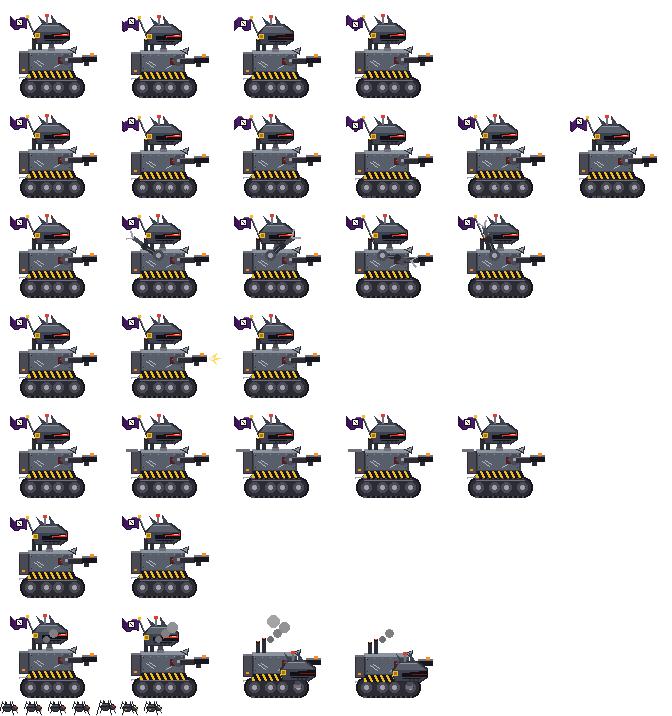
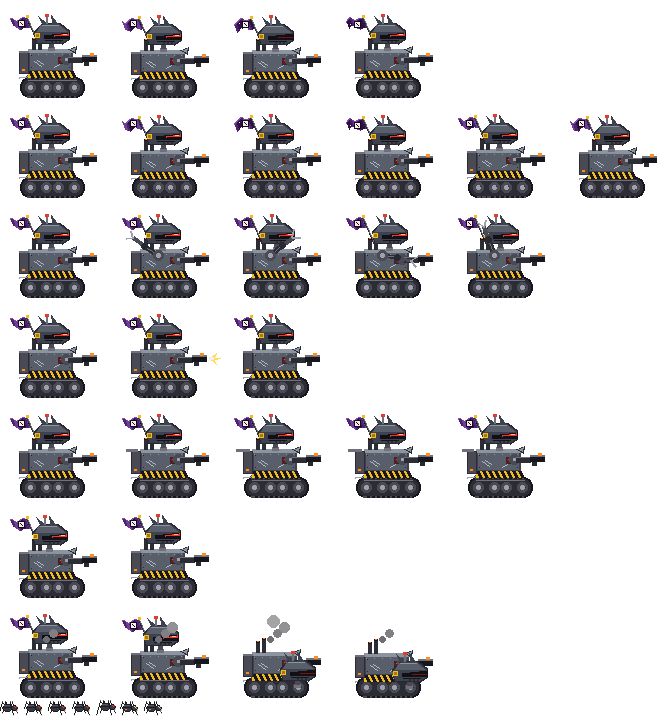
0.12.517: Brood_Bot's flag attaches along the pole and waves like cloth
Claude-Session: https://claude.ai/code/session_01MWfQtZY2YmsPgpaMMoKqpP

diff --git a/crawl.js b/crawl.js
@@ -6088,12 +6088,12 @@ if(typeof module!=='undefined'&&module.exports){module.exports=API;}
 if(typeof document==='undefined')return;
 
 // ======================================================================= UI (browser only)
-const IMG=new Image();IMG.src='crawl.png?v=1795676810';const BGI=new Image();BGI.src='crawl_bg.png?v=1795676810';
-const SP=ATLAS.sprites,BGA=ATLAS.bg,RES=ATLAS.res||1;const UNITS=ATLAS.units||{};const UIMG=new Image();UIMG.src='crawl_units.png?v=1795676810';const RAIN={f:{fw:5,fh:18,n:1,ax:2,ay:17,x:0,y:0,img:'rain'},s:{fw:5,fh:11,n:1,ax:2,ay:10,x:8,y:7,img:'rain'}};
+const IMG=new Image();IMG.src='crawl.png?v=1795676886';const BGI=new Image();BGI.src='crawl_bg.png?v=1795676886';
+const SP=ATLAS.sprites,BGA=ATLAS.bg,RES=ATLAS.res||1;const UNITS=ATLAS.units||{};const UIMG=new Image();UIMG.src='crawl_units.png?v=1795676886';const RAIN={f:{fw:5,fh:18,n:1,ax:2,ay:17,x:0,y:0,img:'rain'},s:{fw:5,fh:11,n:1,ax:2,ay:10,x:8,y:7,img:'rain'}};
 const CAMPF={fw:34,fh:40,ax:17,ay:37,y:0,img:'camp'};
-const XIMG={cityob:new Image(),cars:new Image(),cultist:new Image(),tentacle:new Image(),robot:new Image(),obst:new Image(),lumberjack:new Image(),camp:new Image(),druid:new Image(),tornado:new Image(),vine:new Image(),thorn:new Image(),rain:new Image(),flannel:new Image(),alchemist:new Image(),boom:new Image(),pal:new Image(),chibi:new Image(),wave:new Image(),archer:new Image()};XIMG.archer.src='crawl_archer.png?v=1795676810';XIMG.wave.src='crawl_wave.png?v=1795676810';XIMG.chibi.src='crawl_chibi.png?v=1795676810';XIMG.flannel.src='crawl_flannel.png?v=1795676810';XIMG.alchemist.src='crawl_alch.png?v=1795676810';XIMG.jp=new Image();XIMG.jp.src='crawl_jp.png?v=1795676810';XIMG.eng=new Image();XIMG.eng.src='crawl_eng.png?v=1795676810';XIMG.shoshi=new Image();XIMG.shoshi.src='crawl_shoshi.png?v=1795676810';XIMG.teeg=new Image();XIMG.teeg.src='crawl_teeg.png?v=1795676810';XIMG.seekyle=new Image();XIMG.seekyle.src='crawl_seekyle.png?v=1795676810';XIMG.kids=new Image();XIMG.kids.src='crawl_kids.png?v=1795676810';XIMG.gear=new Image();XIMG.gear.src='crawl_gear.png?v=1795676810';XIMG.portals=new Image();XIMG.portals.src='crawl_portals.png?v=1795676810';XIMG.skel=new Image();XIMG.skel.src='crawl_skel.png?v=1795676810';XIMG.knight=new Image();XIMG.knight.src='crawl_knight.png?v=1795676810';XIMG.strike=new Image();XIMG.strike.src='crawl_strike.png?v=1795676810';XIMG.soldier=new Image();XIMG.soldier.src='crawl_soldier.png?v=1795676810';XIMG.bghood=new Image();XIMG.bghood.src='crawl_bg_hood.png?v=1795676810';XIMG.bloater=new Image();XIMG.hazmat=new Image();XIMG.hazmat.src='crawl_hazmat.png?v=1795676810';XIMG.bloater.src='crawl_bloater.png?v=1795676810';XIMG.screamer=new Image();XIMG.screamer.src='crawl_screamer.png?v=1795676810';XIMG.flame=new Image();XIMG.flame.src='crawl_flame.png?v=1795676810';XIMG.rain.src='crawl_rain.png?v=1795676810';XIMG.druid.src='crawl_druid.png?v=1795676810';XIMG.camp.src='crawl_campfire.png?v=1795676810';XIMG.lumberjack.src='crawl_lumberjack.png?v=1795676810';XIMG.tornado.src='crawl_fx_tornado.png?v=1795676810';XIMG.broodbot=new Image();XIMG.broodbot.src='crawl_broodbot.png?v=1795676810';XIMG.bub=new Image();XIMG.bub.src='crawl_bub.png?v=1795676810';XIMG.vine.src='crawl_fx_vine.png?v=1795676810';XIMG.thorn.src='crawl_fx_thorn.png?v=1795676810';
+const XIMG={cityob:new Image(),cars:new Image(),cultist:new Image(),tentacle:new Image(),robot:new Image(),obst:new Image(),lumberjack:new Image(),camp:new Image(),druid:new Image(),tornado:new Image(),vine:new Image(),thorn:new Image(),rain:new Image(),flannel:new Image(),alchemist:new Image(),boom:new Image(),pal:new Image(),chibi:new Image(),wave:new Image(),archer:new Image()};XIMG.archer.src='crawl_archer.png?v=1795676886';XIMG.wave.src='crawl_wave.png?v=1795676886';XIMG.chibi.src='crawl_chibi.png?v=1795676886';XIMG.flannel.src='crawl_flannel.png?v=1795676886';XIMG.alchemist.src='crawl_alch.png?v=1795676886';XIMG.jp=new Image();XIMG.jp.src='crawl_jp.png?v=1795676886';XIMG.eng=new Image();XIMG.eng.src='crawl_eng.png?v=1795676886';XIMG.shoshi=new Image();XIMG.shoshi.src='crawl_shoshi.png?v=1795676886';XIMG.teeg=new Image();XIMG.teeg.src='crawl_teeg.png?v=1795676886';XIMG.seekyle=new Image();XIMG.seekyle.src='crawl_seekyle.png?v=1795676886';XIMG.kids=new Image();XIMG.kids.src='crawl_kids.png?v=1795676886';XIMG.gear=new Image();XIMG.gear.src='crawl_gear.png?v=1795676886';XIMG.portals=new Image();XIMG.portals.src='crawl_portals.png?v=1795676886';XIMG.skel=new Image();XIMG.skel.src='crawl_skel.png?v=1795676886';XIMG.knight=new Image();XIMG.knight.src='crawl_knight.png?v=1795676886';XIMG.strike=new Image();XIMG.strike.src='crawl_strike.png?v=1795676886';XIMG.soldier=new Image();XIMG.soldier.src='crawl_soldier.png?v=1795676886';XIMG.bghood=new Image();XIMG.bghood.src='crawl_bg_hood.png?v=1795676886';XIMG.bloater=new Image();XIMG.hazmat=new Image();XIMG.hazmat.src='crawl_hazmat.png?v=1795676886';XIMG.bloater.src='crawl_bloater.png?v=1795676886';XIMG.screamer=new Image();XIMG.screamer.src='crawl_screamer.png?v=1795676886';XIMG.flame=new Image();XIMG.flame.src='crawl_flame.png?v=1795676886';XIMG.rain.src='crawl_rain.png?v=1795676886';XIMG.druid.src='crawl_druid.png?v=1795676886';XIMG.camp.src='crawl_campfire.png?v=1795676886';XIMG.lumberjack.src='crawl_lumberjack.png?v=1795676886';XIMG.tornado.src='crawl_fx_tornado.png?v=1795676886';XIMG.broodbot=new Image();XIMG.broodbot.src='crawl_broodbot.png?v=1795676886';XIMG.bub=new Image();XIMG.bub.src='crawl_bub.png?v=1795676886';XIMG.vine.src='crawl_fx_vine.png?v=1795676886';XIMG.thorn.src='crawl_fx_thorn.png?v=1795676886';
 const TORN={fw:96,fh:96,n:16,ax:48,ay:90,x:0,y:0,img:'tornado',art:1},VINE={fw:260,fh:116,n:7,ax:130,ay:110,x:0,y:0,img:'vine',art:1};
-const THORNS=[[0,35,53],[37,67,79],[106,36,82],[144,87,74]].map(([x,w,h])=>({fw:w,fh:h,n:1,ax:w/2,ay:81,x,y:82-h,img:'thorn',art:1}));XIMG.pal.src='crawl_pal.png?v=1795676810';XIMG.axe=new Image();XIMG.axe.src='crawl_axe.png?v=1795676810';XIMG.fxp=new Image();XIMG.fxp.src='crawl_fxpack.png?v=1795676810';XIMG.nest=new Image();XIMG.nest.src='crawl_mgnest.png?v=1795676810';XIMG.dog=new Image();XIMG.dog.src='crawl_dog.png?v=1795676810';XIMG.bat=new Image();XIMG.bat.src='crawl_bat.png?v=1795676810';XIMG.edward=new Image();XIMG.edward.src='crawl_edward.png?v=1795676810';XIMG.cheez=new Image();XIMG.cheez.src='crawl_cheez.png?v=1795676810';XIMG.chumboom=new Image();XIMG.chumboom.src='crawl_chumboom.png?v=1795676810';XIMG.cheezhorse=new Image();XIMG.cheezhorse.src='crawl_cheezhorse.png?v=1795676810';XIMG.obst.src='crawl_obst.png?v=1795676810';XIMG.cityob.src='crawl_cityob.png?v=1795676810';XIMG.cars.src='crawl_cars.png?v=1795676810';XIMG.robot.src='crawl_robot.png?v=1795676810';XIMG.cultist.src='crawl_cultist.png?v=1795676810';XIMG.tentacle.src='crawl_tentacle.png?v=1795676810';XIMG.boom.src='crawl_boom.png?v=1795676810';
+const THORNS=[[0,35,53],[37,67,79],[106,36,82],[144,87,74]].map(([x,w,h])=>({fw:w,fh:h,n:1,ax:w/2,ay:81,x,y:82-h,img:'thorn',art:1}));XIMG.pal.src='crawl_pal.png?v=1795676886';XIMG.axe=new Image();XIMG.axe.src='crawl_axe.png?v=1795676886';XIMG.fxp=new Image();XIMG.fxp.src='crawl_fxpack.png?v=1795676886';XIMG.nest=new Image();XIMG.nest.src='crawl_mgnest.png?v=1795676886';XIMG.dog=new Image();XIMG.dog.src='crawl_dog.png?v=1795676886';XIMG.bat=new Image();XIMG.bat.src='crawl_bat.png?v=1795676886';XIMG.edward=new Image();XIMG.edward.src='crawl_edward.png?v=1795676886';XIMG.cheez=new Image();XIMG.cheez.src='crawl_cheez.png?v=1795676886';XIMG.chumboom=new Image();XIMG.chumboom.src='crawl_chumboom.png?v=1795676886';XIMG.cheezhorse=new Image();XIMG.cheezhorse.src='crawl_cheezhorse.png?v=1795676886';XIMG.obst.src='crawl_obst.png?v=1795676886';XIMG.cityob.src='crawl_cityob.png?v=1795676886';XIMG.cars.src='crawl_cars.png?v=1795676886';XIMG.robot.src='crawl_robot.png?v=1795676886';XIMG.cultist.src='crawl_cultist.png?v=1795676886';XIMG.tentacle.src='crawl_tentacle.png?v=1795676886';XIMG.boom.src='crawl_boom.png?v=1795676886';
 const WAVE={fw:110,fh:68,n:1,ax:48,ay:63,x:0,y:0,img:'wave'};   // Wave Dash energy wave (3 flickering frames)
 const BOOM={fw:128,fh:131,n:15,ax:64,ay:128,x:0,y:0,img:'boom',art:1};   // explosion frames from Kyle's sheet (15 frames, half size)
 const ART_SCALE=21/152;   // full-detail character art drawn at the in-game size Kyle liked (his 152px-tall art = 21 world px)
@@ -6128,7 +6128,7 @@ function musicStop(){try{if(BGM)BGM.pause();}catch(e){}}
 /* 0.12.310 recorded clips (Tee_Grizzle): decoded once, played through the same AudioContext as the synth sounds */
 const SAMP={teeg1:{src:'crawl_teeg1',off:.34},teeg2:{src:'crawl_teeg2',off:0},teeg3:{src:'crawl_teeg3',off:0},jp1:{src:'crawl_jp1',off:0},kidhowl:{src:'crawl_kidhowl',off:0},leiftag:{src:'crawl_leiftag',off:0}};   /* 0.12.394: the boys' howl, Leif's "tag!" */   /* 0.12.380: Tee's Pistol_Play line, JP's No_Scope line */
 function sampLoad(k){const S=SAMP[k];if(!S||S.buf||S.loading||!AC)return;S.loading=1;const ext=(new Audio()).canPlayType('audio/ogg; codecs="vorbis"')?'.ogg':'.mp3';
-  fetch(S.src+ext+'?v=1795676810').then(r=>r.arrayBuffer()).then(b=>AC.decodeAudioData(b,d=>{S.buf=d;},()=>{})).catch(()=>{});}
+  fetch(S.src+ext+'?v=1795676886').then(r=>r.arrayBuffer()).then(b=>AC.decodeAudioData(b,d=>{S.buf=d;},()=>{})).catch(()=>{});}
 function sampPlay(k,off,vol,soft){const S=SAMP[k];if(!S)return;if(!S.buf){sampLoad(k);return;}const src=AC.createBufferSource(),g=AC.createGain();src.buffer=S.buf;g.gain.value=vol==null?.55:vol;
   if(soft){const lp=AC.createBiquadFilter();lp.type='lowpass';lp.frequency.value=soft;lp.Q.value=.5;src.playbackRate.value=.94+Math.random()*.1;src.connect(lp);lp.connect(g);}else src.connect(g);g.connect(AC.destination);src.start(0,off==null?S.off:off);}   /* 0.12.329 (Kyle: a bit less annoying): Tee's clips play softer, muffled (low-pass) and with a little pitch wobble */
 function sfx(k,o){if(muted)return;try{AC=AC||new (window.AudioContext||window.webkitAudioContext)();const t=AC.currentTime;
@@ -7412,7 +7412,7 @@ let root,cv,ctx,panel,hud,info,bossEl,banner;
 function build(){
   if(root)return;if(!document.getElementById('cc-style')){const st=document.createElement('style');st.id='cc-style';st.textContent=CSS;document.head.appendChild(st);}
   root=document.createElement('div');root.id='cc';root.hidden=true;root.setAttribute('role','dialog');root.setAttribute('aria-label','Crypt Crawl');
-  root.innerHTML=`<div class="cc-top"><span class="t">⚰ CRYPT CRAWL <span style="color:#6a5a7a;font-size:8px">v0.12.516</span></span>
+  root.innerHTML=`<div class="cc-top"><span class="t">⚰ CRYPT CRAWL <span style="color:#6a5a7a;font-size:8px">v0.12.517</span></span>
     <button class="cc-ib" data-a="restart" title="Restart this stage from its save point" hidden>↺</button><button class="cc-ib" data-a="pause" title="Pause">⏸</button><button class="cc-ib" data-a="speed" title="Game speed">1×</button>
     <button class="cc-ib" data-a="brain" title="Show what every unit is thinking">🧠</button><button class="cc-ib" data-a="mute" title="Sound effects">${muted?'🔇':'🔊'}</button><button class="cc-ib" data-a="music" title="Music on/off">${musicMuted?'🎵̸':'🎵'}</button><button class="cc-ib" data-a="track" title="Next track (now: ${TRACKS[trackI].name})">⏭</button><input class="cc-vol" data-vol type="range" min="0" max="100" value="${Math.round(musicVol*100)}" title="Music volume"><button class="cc-ib" data-a="zoom" title="Zoom (Auto: closer camera on phones)">🔍</button><button class="cc-ib" data-a="side" title="Turn sideways (phones held upright)">⟳</button><button class="cc-ib" data-a="fs" title="Full screen">⛶</button><button class="cc-ib" data-a="close" title="Close">✕</button></div>
     <div class="cc-main"><div class="cc-info"></div><div class="cc-cvw"><div class="cc-uf"></div><canvas id="cc-cv" width="${384*RES*GQ}" height="${216*RES*GQ}"></canvas></div><div class="cc-boss"></div><div class="cc-banner"></div><div class="cc-hud"></div><div class="cc-panel"></div></div>`;
@@ -7725,7 +7725,7 @@ function showTree(k){const s=SLOT(),L=s&&s.heroes[k];if(!L)return;L.tk=k;treeIni
       return `<div class="${cls}" data-n="${n.id}" title="${esc(n.name)}" style="grid-row:${n.row};grid-column:${'abcd'.indexOf(n.col)+1}">${n.icon}<span class="trk">${rk}/${n.max}</span></div>`;};
     const col=(B,bi)=>{const bp=treeBranchPts(k,L,bi);const nxt=TREE_REQ.find(q=>q>bp);
       return `<div class="tbr" data-bi="${bi}" style="flex:1 1 0;min-width:0;max-width:340px;position:relative;border:2px solid #3a2e4a;border-radius:12px;overflow:hidden;box-shadow:0 0 18px #000c;
-          background:linear-gradient(180deg,#0006,#000a 70%),url(crawl_talbg.png?v=1795676810) ${-(B.bg||0)*100}% 0/900% 100%;image-rendering:pixelated">
+          background:linear-gradient(180deg,#0006,#000a 70%),url(crawl_talbg.png?v=1795676886) ${-(B.bg||0)*100}% 0/900% 100%;image-rendering:pixelated">
         <svg class="tlines" style="position:absolute;inset:0;width:100%;height:100%;pointer-events:none;z-index:0"></svg>
         <div style="position:relative;z-index:1;text-align:center;font-weight:800;color:#ffe9a8;letter-spacing:.5px;padding-top:6px;text-shadow:0 1px 3px #000;font-size:${sm?11:14}px;white-space:nowrap;overflow:hidden;text-overflow:ellipsis">${B.icon} ${esc(B.name)}</div>
         <div style="position:relative;z-index:1;font-size:9.5px;text-align:center;color:#c9b8e0;text-shadow:0 1px 2px #000">${bp} point${bp===1?'':'s'} · ${nxt!=null?`next tier at ${nxt}`:'every tier open'}</div>
@@ -7771,7 +7771,7 @@ function showTree(k){const s=SLOT(),L=s&&s.heroes[k];if(!L)return;L.tk=k;treeIni
 /* 0.12.338 (Kyle) GEAR screen: 3 slots per hero (Weapon / Armor / Trinket), a stash, free swaps. Tap anything to see it in full
    (no hover needed). Spare parts raise an item a quality tier (Rusted -> plain -> Fine -> Masterwork); scrapping gives parts back. */
 function gearIcon(it,sz){const D=gearDef(it);if(!D)return '';sz=sz||32;const k=sz/32;const R=GEAR_RAR[D.r];
-  return `<span style="display:inline-block;width:${sz}px;height:${sz}px;background:url(crawl_gear.png?v=1795676810) ${-(D.id%16)*sz}px ${-Math.floor(D.id/16)*sz}px/${512*k}px auto;image-rendering:pixelated;filter:drop-shadow(0 0 3px ${R.c}aa)${it.q===0?' sepia(.7) saturate(.6)':''}"></span>`;}
+  return `<span style="display:inline-block;width:${sz}px;height:${sz}px;background:url(crawl_gear.png?v=1795676886) ${-(D.id%16)*sz}px ${-Math.floor(D.id/16)*sz}px/${512*k}px auto;image-rendering:pixelated;filter:drop-shadow(0 0 3px ${R.c}aa)${it.q===0?' sepia(.7) saturate(.6)':''}"></span>`;}
 function showGear(k0){const s=SLOT();if(!s)return;const run=s.run;const team=(run&&run.team)||[k0];let k=k0;let sel=null,filt='all';gearSlot(s);
   let ov=document.getElementById('cc-gear');if(ov)ov.remove();ov=document.createElement('div');ov.id='cc-gear';
   ov.style.cssText='position:fixed;inset:0;z-index:9000;background:radial-gradient(ellipse at 50% 20%,rgba(40,30,70,.6),rgba(4,2,8,.96));overflow:hidden';   /* 0.12.501 (Kyle): full screen and scrollable, close in the top-right (works on the flipped screen too) */

diff --git a/notes.html b/notes.html
@@ -1,4 +1,6 @@
       <h2>What's new</h2>
+      <h3>0.12.517 — The flag hangs like a real flag</h3>
+<ul><li>Brood_Bot's Dice Boys flag is now fastened along the slanted pole like real cloth, with a stitched hem down the pole. The free end streams back from it, rippling harder and drooping a little the farther it gets from the pole, with light and dark folds rolling through it as it waves. The die rides the cloth.</li></ul>
       <h3>0.12.516 — Flag tweak</h3>
 <ul><li>Brood_Bot's Dice Boys flag is on a shorter pole now, angled back off his back behind his head, with a slightly smaller flag. It still ripples in his idle and move animations.</li></ul>
       <h3>0.12.515 — Brood_Bot flies the Dice Boys flag</h3>
